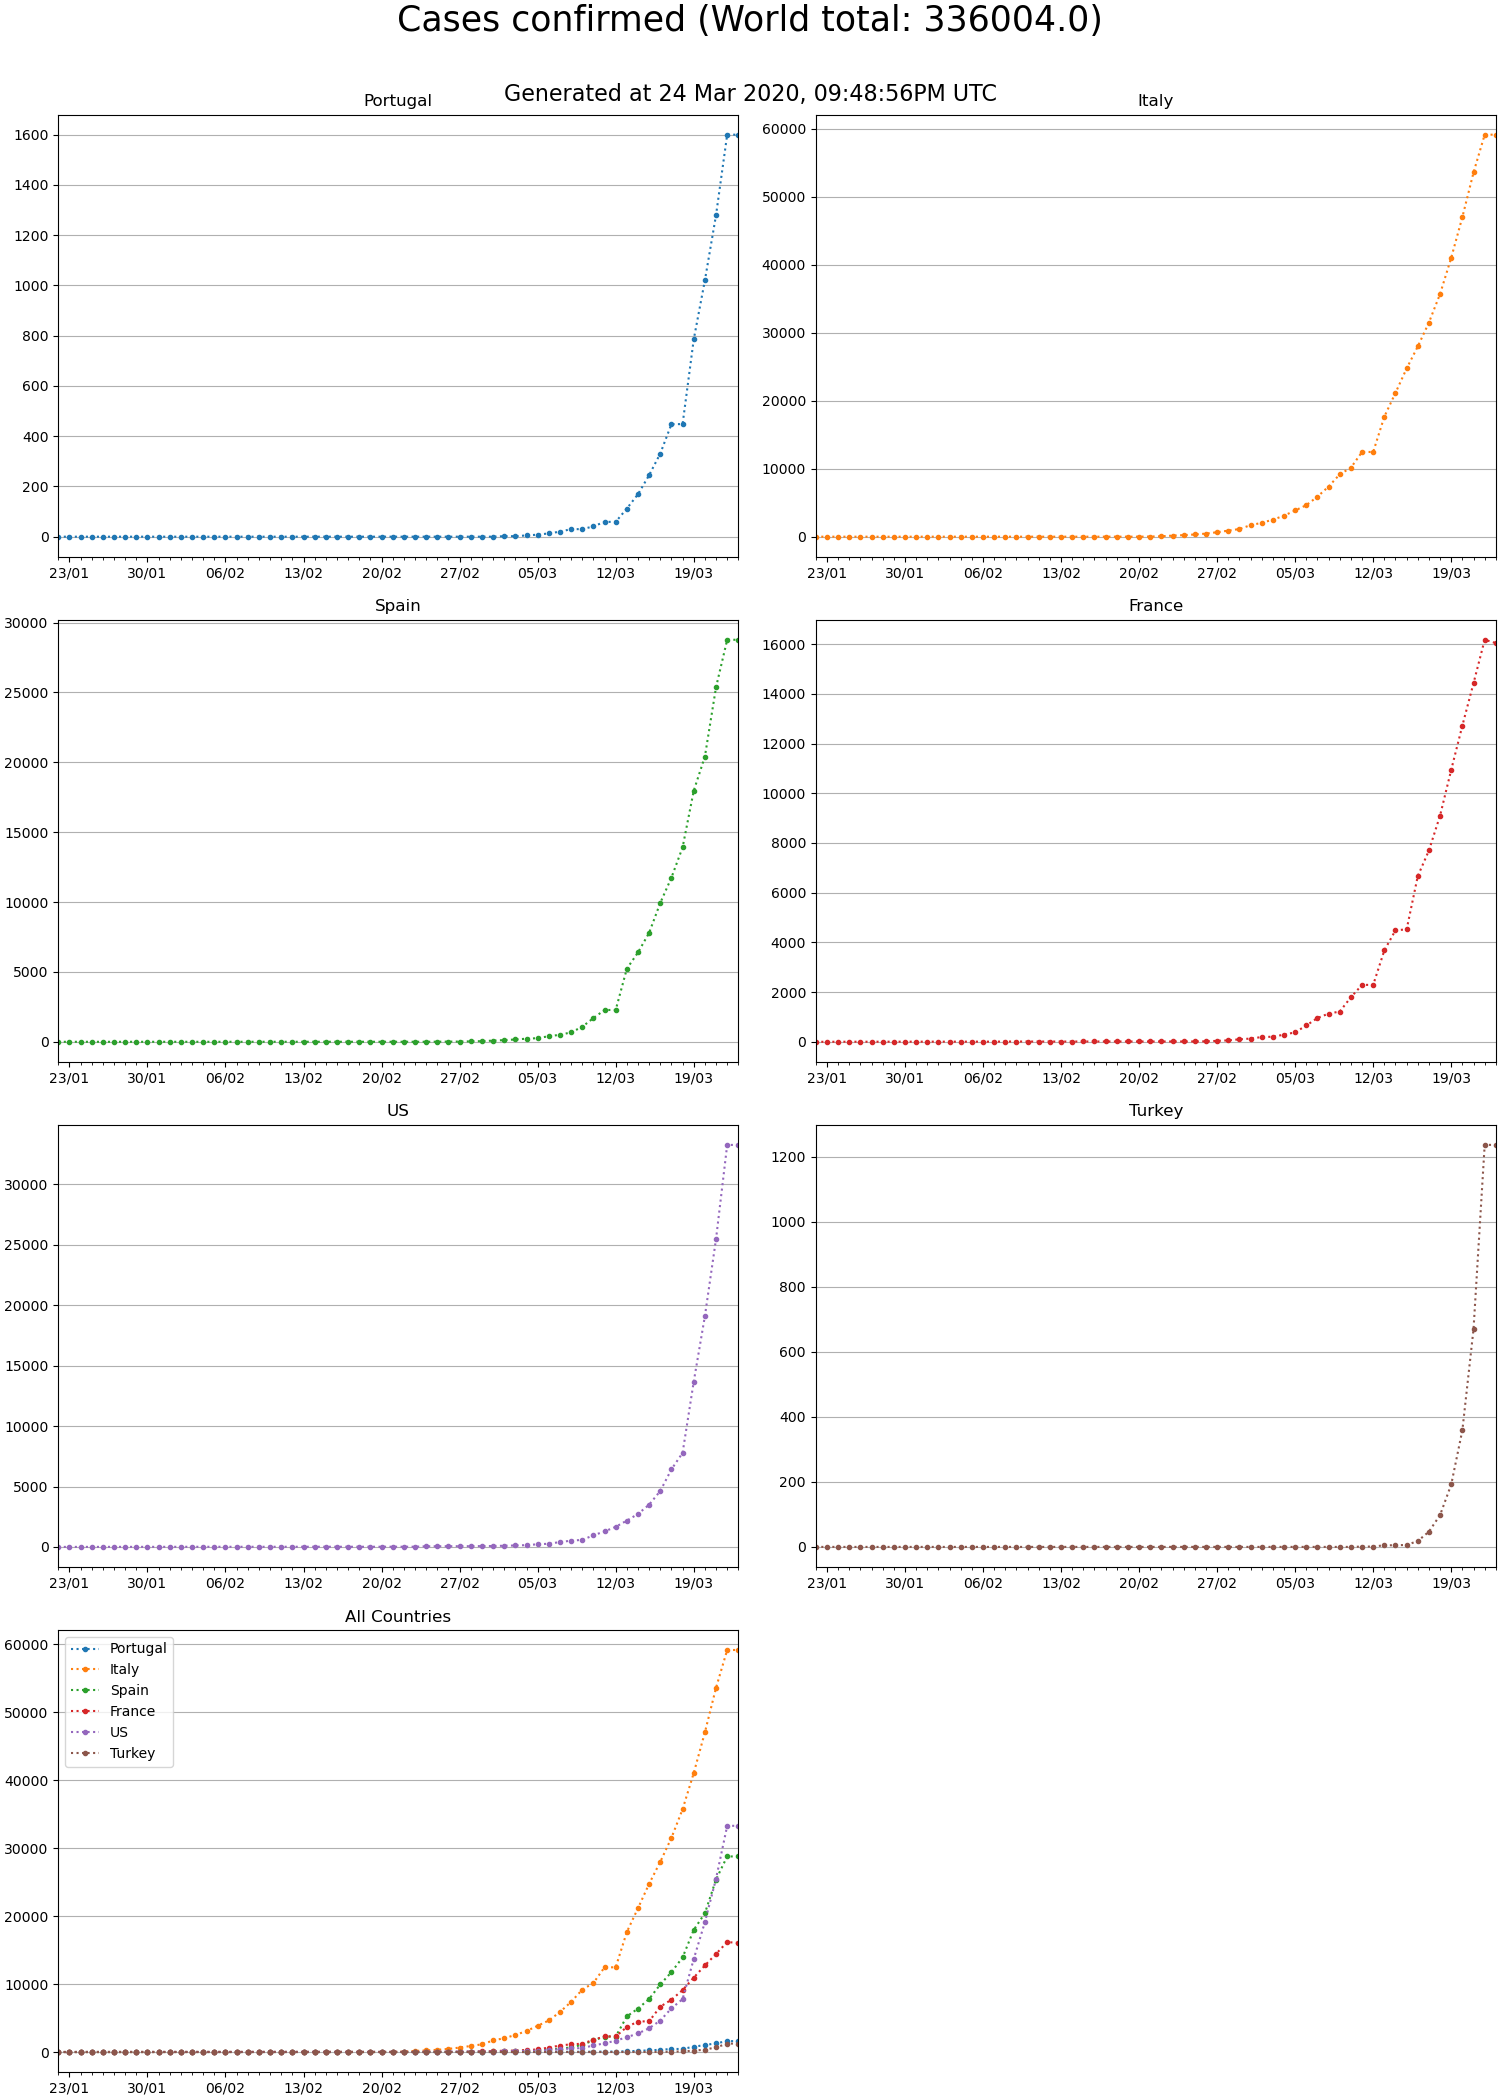
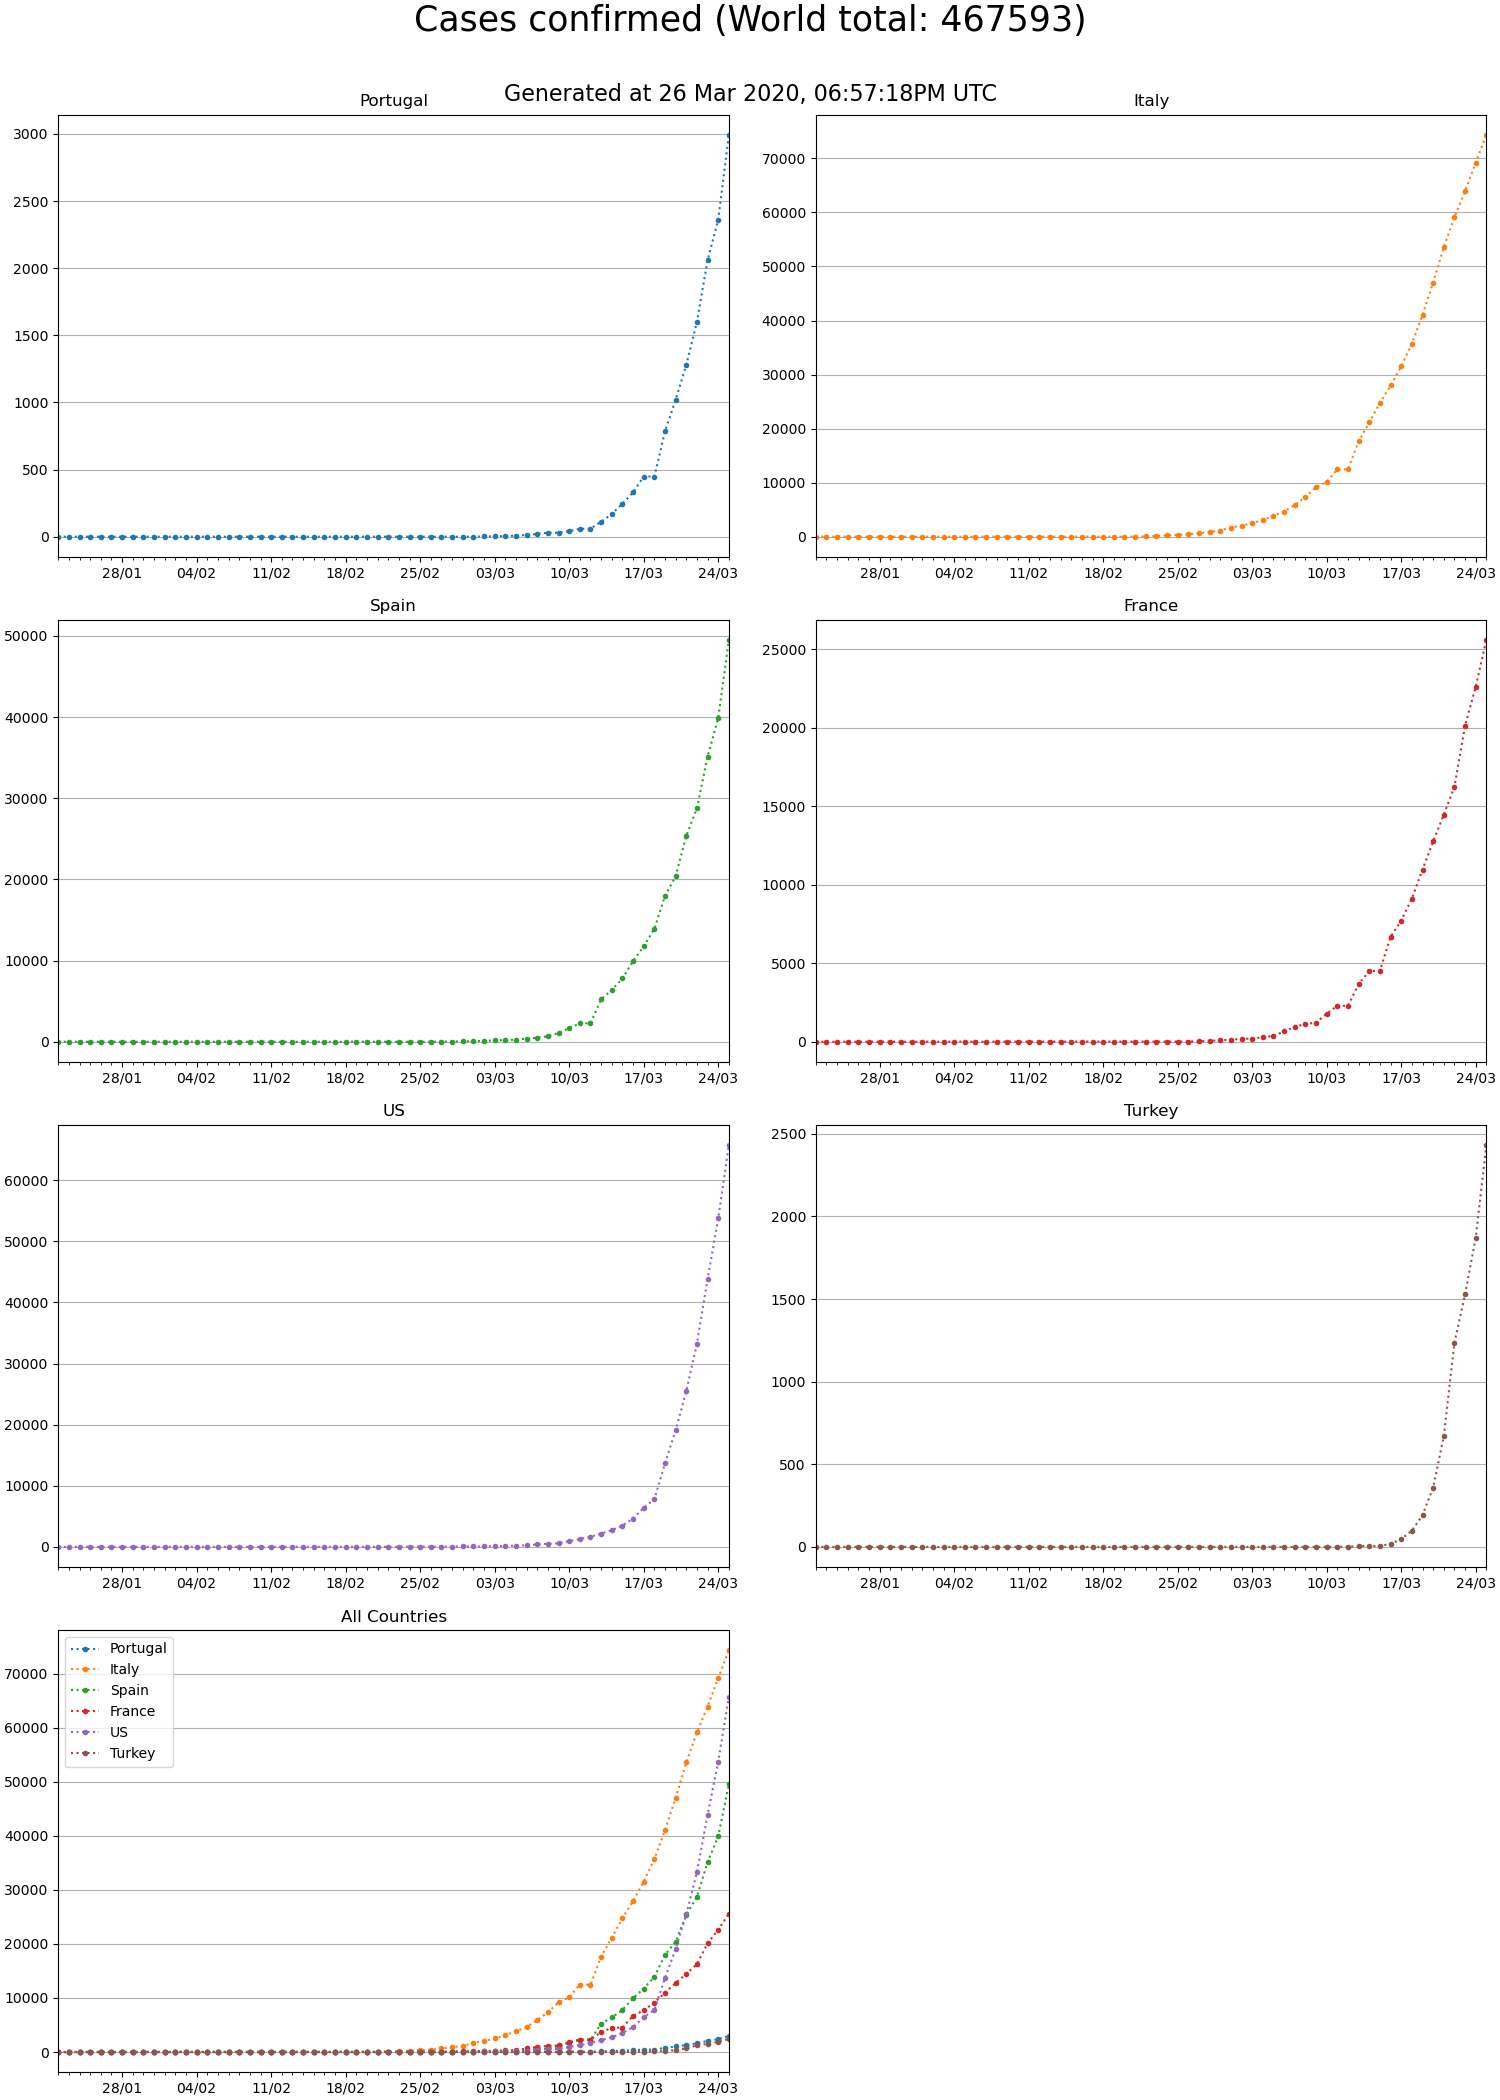
Update URL and confirmed data

diff --git a/downloader.py b/downloader.py
@@ -14,9 +14,9 @@ class color:
 # COVID DATA
 class Data:
     URLS = {
-        'confirmed': 'https://raw.githubusercontent.com/CSSEGISandData/COVID-19/master/csse_covid_19_data/csse_covid_19_time_series/time_series_19-covid-Confirmed.csv',
-        'deaths': 'https://raw.githubusercontent.com/CSSEGISandData/COVID-19/master/csse_covid_19_data/csse_covid_19_time_series/time_series_19-covid-Deaths.csv',
-        'recovered': 'https://raw.githubusercontent.com/CSSEGISandData/COVID-19/master/csse_covid_19_data/csse_covid_19_time_series/time_series_19-covid-Recovered.csv'
+        'confirmed': 'https://raw.githubusercontent.com/CSSEGISandData/COVID-19/master/csse_covid_19_data/csse_covid_19_time_series/time_series_covid19_confirmed_global.csv',
+        'deaths': 'https://raw.githubusercontent.com/CSSEGISandData/COVID-19/master/csse_covid_19_data/csse_covid_19_time_series/time_series_covid19_deaths_global.csv',
+        'recovered': 'https://raw.githubusercontent.com/CSSEGISandData/COVID-19/master/csse_covid_19_data/csse_covid_19_time_series/time_series_covid19_recovered_global.csv'
     }
     
     @classmethod
